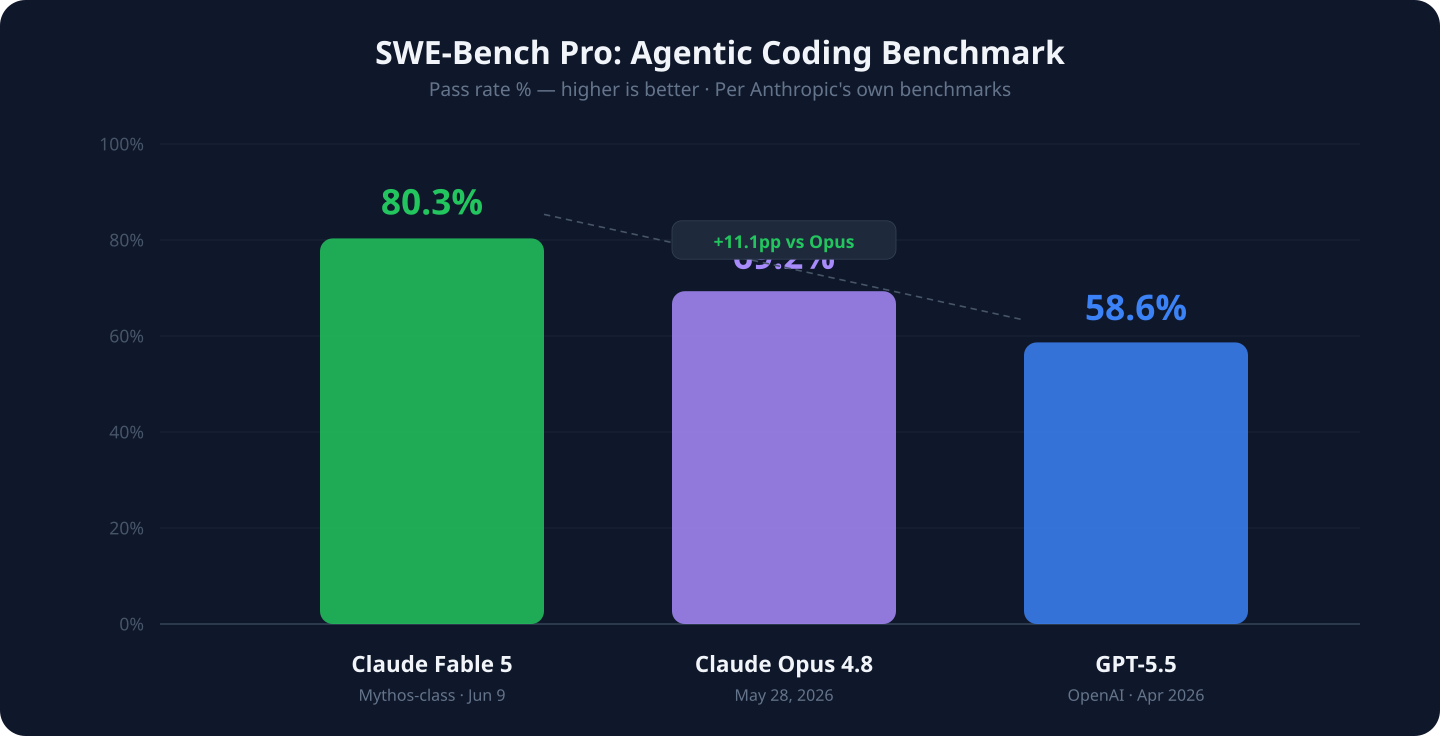
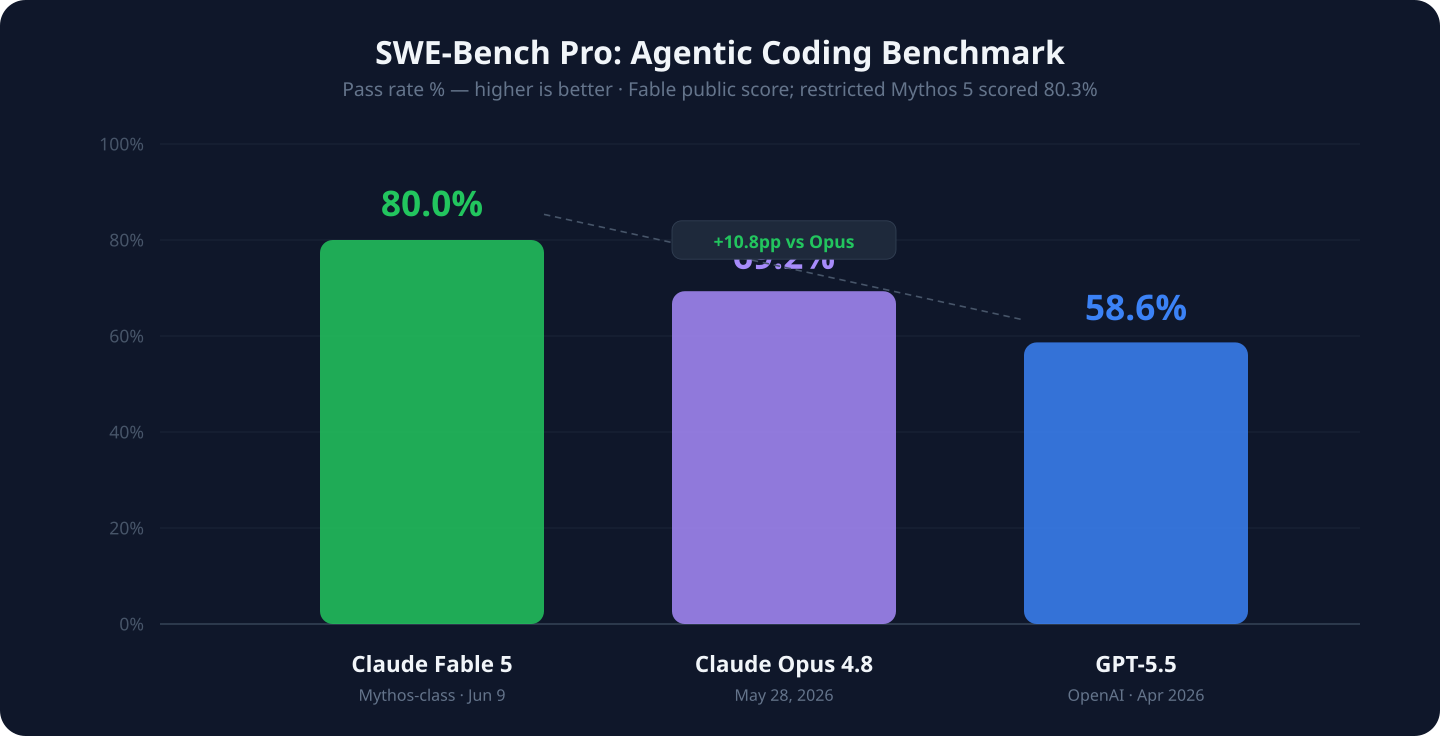
fix: fact-check Claude Fable 5 article

Changed region(s): [[0.25, 0.0938, 0.75, 0.1562], [0.25, 0.25, 0.3438, 0.3125], [0.5, 0.3125, 0.5312, 0.3438]]

diff --git a/articles/genai-20260610-claude-fable-5-mythos/index.html b/articles/genai-20260610-claude-fable-5-mythos/index.html
@@ -51,24 +51,24 @@
         <p class="caption">Anthropic's new model hierarchy — Mythos class sits above Opus for the first time</p>
     </div>
 
-    <p>On June 9, 2026, Anthropic did something no frontier AI lab has done before. They released their most powerful model to date — <em>and then split it in two.</em></p>
+    <p>On June 9, 2026, Anthropic did something unusual for a frontier AI lab. They released their most capable model family to date — <em>and then split it in two.</em></p>
 
-    <p><strong>Claude Fable 5</strong> is available to everyone via API, claude.ai, AWS Bedrock, and Google Vertex. <strong>Claude Mythos 5</strong> is the same model, but restricted to vetted enterprise partners and biology researchers. The difference? Safety guardrails — Fable 5 blocks queries in high-risk areas like cybersecurity exploitation and biological harm, while Mythos 5 gets full, unrestricted access.</p>
+    <p><strong>Claude Fable 5</strong> is generally available via the Claude API, Claude Platform on AWS, Amazon Bedrock, Vertex AI, Microsoft Foundry, and Claude subscription plans through June 22 before usage credits are required. <strong>Claude Mythos 5</strong> uses the same underlying model, but is limited to approved Project Glasswing partners and future trusted-access researchers. The difference is the safety layer: Fable 5 routes or refuses flagged high-risk cybersecurity and biology requests, while Mythos 5 lifts specific safeguards for approved use cases.</p>
 
-    <p>This is the story of the first "Mythos-class" model, a new tier that sits above Opus in Anthropic's hierarchy. And it arrives at a pointed moment: Anthropic confidentially filed for IPO on June 1, 2026 — eight days before this launch.</p>
+    <p>This is the story of the first broadly available "Mythos-class" release, a new tier that sits above Opus in Anthropic's hierarchy. And it arrives at a pointed moment: Anthropic submitted a confidential draft S-1 for a proposed IPO on June 1, 2026 — eight days before this launch.</p>
 
     <hr>
 
     <h2>The Mythos Tier: A New Layer on Top</h2>
 
-    <p>Since Claude 3 launched in March 2024, Anthropic's model lineup has been three-tiered: Haiku (fast and cheap), Sonnet (balanced), and Opus (professional-grade). For two years, Opus was the ceiling. Leaks about a fourth "Mythos" tier started circulating in April 2026, and Anthropic confirmed the existence of a Mythos Preview available to select testers — but wouldn't commit to a public release.</p>
+    <p>Since Claude 3 was announced on March 4, 2024, Anthropic's public model lineup has been anchored by three capability bands: Haiku, Sonnet, and Opus. Opus and Sonnet shipped first, with Haiku following later that month. For two years, Opus was the ceiling. In April 2026, Anthropic revealed a limited Claude Mythos 2 Preview through Project Glasswing — an unreleased frontier model available only to selected partners for defensive security work.</p>
 
-    <p>Now we know why they held back. The model is powerful enough that Anthropic spent months building safety infrastructure before they were comfortable releasing it publicly. The result is a two-model strategy: one model, two configurations.</p>
+    <p>Now Fable 5 turns that Mythos-class capability into a broadly available product, but only after Anthropic added conservative safeguards and a restricted Mythos 5 path for trusted-access use cases. The result is a two-model strategy: one base model, two deployment configurations.</p>
 
     <div class="stat-grid">
         <div class="stat-card">
-            <div class="number">80.3%</div>
-            <div class="label">SWE-Bench Pro score (Fable 5)</div>
+            <div class="number">80.0%</div>
+            <div class="label">SWE-Bench Pro score (Fable 5; Mythos 5: 80.3%)</div>
         </div>
         <div class="stat-card">
             <div class="number">1M</div>
@@ -89,19 +89,19 @@
     <h2>What the Benchmarks Actually Say</h2>
 
     <div class="img-container">
-        <img src="https://vinoth12940.github.io/blog/articles/genai-20260610-claude-fable-5-mythos/images/02_benchmarks.png" alt="Bar chart comparing Claude Fable 5 at 80.3%, Claude Opus 4.8 at 69.2%, and GPT-5.5 at 58.6% on SWE-Bench Pro">
-        <p class="caption">SWE-Bench Pro agentic coding benchmark — Fable 5 leads by 11.1 percentage points over Opus 4.8</p>
+        <img src="https://vinoth12940.github.io/blog/articles/genai-20260610-claude-fable-5-mythos/images/02_benchmarks.png" alt="Bar chart comparing Claude Fable 5 at 80.0%, Claude Opus 4.8 at 69.2%, and GPT-5.5 at 58.6% on SWE-Bench Pro; restricted Mythos 5 scored 80.3%">
+        <p class="caption">SWE-Bench Pro agentic coding benchmark — Fable 5 leads Opus 4.8 by 10.8 percentage points; restricted Mythos 5 scored 80.3%</p>
     </div>
 
-    <p>The headline number: <strong>Fable 5 scores 80.3% on SWE-Bench Pro</strong>, Anthropic's preferred agentic coding benchmark. That's 11.1 percentage points above Opus 4.8 (69.2%) and 21.7 points above GPT-5.5 (58.6%), per Anthropic's own testing.</p>
+    <p>The headline number needs one caveat: <strong>Fable 5 scores 80.0% on SWE-Bench Pro</strong>, while restricted Mythos 5 scores 80.3%, per Anthropic's system card. That puts Fable 5 10.8 percentage points above Opus 4.8 (69.2%) and 21.4 points above GPT-5.5 (58.6%), based on Anthropic's own testing.</p>
 
     <blockquote>
         <p><strong>Important caveat:</strong> These benchmarks come from Anthropic's own evaluation. As of publication, independent third-party verification of Fable 5's SWE-Bench Pro scores is not yet available. Treat these as self-reported until confirmed by external eval runners.</p>
     </blockquote>
 
-    <p>On CursorBench — the coding agent benchmark maintained by the Cursor team — Fable 5 scores 66% (47.0/71.0), which Cursor CEO Michael Truell called "the state of the art model for coding" in Anthropic's announcement post.</p>
+    <p>On CursorBench — the coding agent benchmark maintained by the Cursor team — Fable 5 scores 72.9% at maximum effort, 8.6 points above GPT-5.5's highest published effort (64.3%), according to Anthropic's system card and Cursor's published benchmark. Cursor CEO Michael Truell called it "the state of the art model for coding" in Anthropic's announcement post.</p>
 
-    <p>Beyond coding, Anthropic reports a 10-point jump over Opus 4.8 on long-running analytical tasks, improved vision capabilities (including the ability to rebuild application interfaces from screenshots), and significant gains in knowledge work and memory across extended sessions.</p>
+    <p>Beyond coding, Anthropic reports a 10-point jump over Opus on long-running analytical tasks, improved vision capabilities (including the ability to rebuild application interfaces from screenshots), and significant gains in knowledge work and memory across extended sessions.</p>
 
     <hr>
 
@@ -109,7 +109,7 @@
 
     <p>Perhaps the most striking claim in the announcement came from Stripe. During early testing, Stripe reported that Fable 5 <strong>"compressed months of engineering into days"</strong> while working across a 50-million-line codebase.</p>
 
-    <p>This is the kind of claim that sounds like marketing until you consider the source. Stripe has one of the most sophisticated engineering teams in the industry and a codebase that handles billions of dollars in transactions. If they're saying it publicly, it's worth paying attention to — though the specific tasks, conditions, and human oversight involved were not detailed.</p>
+    <p>This is the kind of claim that sounds like marketing until you consider the source. Stripe has one of the most sophisticated engineering teams in the industry and a codebase that handles billions of dollars in transactions. If Anthropic is putting that Stripe testimonial in the launch announcement, it's worth paying attention to — though the specific tasks, conditions, and human oversight involved were not detailed.</p>
 
     <p>What we do know is that Anthropic specifically highlights Fable 5's ability to "work autonomously for longer than any previous Claude models." This suggests meaningful improvements in sustained multi-step task execution — not just single-turn coding challenges, but the ability to plan, execute, debug, and iterate across hours or days of work.</p>
 
@@ -118,49 +118,49 @@
     <h2>The Safety Split: Same Model, Two Doors</h2>
 
     <div class="img-container">
-        <img src="https://vinoth12940.github.io/blog/articles/genai-20260610-claude-fable-5-mythos/images/03_safety_split.png" alt="Diagram showing Claude Fable 5 available publicly with safety guardrails versus Claude Mythos 5 restricted to vetted partners with full capabilities">
+        <img src="https://vinoth12940.github.io/blog/articles/genai-20260610-claude-fable-5-mythos/images/03_safety_split.png" alt="Diagram showing Claude Fable 5 generally available with safety guardrails versus Claude Mythos 5 restricted to vetted partners with selected safeguards lifted">
         <p class="caption">The two-model release strategy — identical base model, different safety configurations</p>
     </div>
 
-    <p>Here's where the story gets genuinely unprecedented. Anthropic didn't just release one powerful model — they released the same model in two configurations:</p>
+    <p>Here's where the story gets genuinely precedent-setting. Anthropic didn't just release one powerful model — they released the same base model in two configurations:</p>
 
     <ul>
-        <li><strong>Claude Fable 5</strong> — available to everyone, with guardrails that block responses in high-risk cybersecurity and biology domains</li>
-        <li><strong>Claude Mythos 5</strong> — available only to vetted Project Glasswing partners and selected biology researchers, with full unrestricted capabilities</li>
+        <li><strong>Claude Fable 5</strong> — generally available, with classifiers that route or refuse flagged high-risk cybersecurity and biology requests</li>
+        <li><strong>Claude Mythos 5</strong> — available only to vetted Project Glasswing partners and trusted-access researchers, with specific safeguards lifted for approved use cases</li>
     </ul>
 
-    <p>Per Anthropic's system card, Fable 5 achieves "near-perfect harmless response rate" on child safety evaluations. The Guardian reported that Anthropic "restricted access for months over cybersecurity concerns" before deciding on this split release approach.</p>
+    <p>Per Anthropic's system card, Fable 5 achieves a "near-perfect harmless response rate" on single-turn child safety evaluations. The Guardian/AFP reported that Anthropic restricted Mythos access over cybersecurity concerns before deciding on this split release approach.</p>
 
-    <p>The practical difference: if you're a security researcher trying to test Fable 5 on penetration testing scenarios, or a biologist working on pathogen research, Fable 5 will refuse. Mythos 5 won't — but you can't get access to Mythos 5 without going through Anthropic's vetting process.</p>
+    <p>The practical difference: if you're a security researcher testing flagged penetration-testing scenarios, or a biologist working on sensitive pathogen research, Fable 5 may route the request to Opus 4.8 or return an API refusal. Mythos 5 is not a public bypass; it requires approval through Project Glasswing or Anthropic's broader trusted-access programs.</p>
 
     <blockquote class="warning">
-        <p><strong>Why this matters:</strong> This is the first time a major AI lab has explicitly acknowledged that they built something too dangerous for full public release — and created a parallel restricted version for trusted partners. It sets a precedent that other labs will likely follow as models become more capable.</p>
+        <p><strong>Why this matters:</strong> This is one of the clearest examples yet of a major AI lab putting Mythos-level capabilities into a public product while keeping a parallel, less-restricted configuration for vetted partners. It sets a precedent that other labs may follow as models become more capable.</p>
     </blockquote>
 
     <hr>
 
     <h2>Pricing: Premium Power at Premium Cost</h2>
 
-    <p>Fable 5 isn't cheap. At <strong>$10 per million input tokens and $50 per million output tokens</strong>, it's roughly double Opus 4.8's pricing and double GPT-5.5's input cost. Both Fable 5 and Mythos 5 share the same pricing structure.</p>
+    <p>Fable 5 isn't cheap. At <strong>$10 per million input tokens and $50 per million output tokens</strong>, it's a premium-tier model, though Anthropic says it is still less than half the price of Mythos Preview. Both Fable 5 and Mythos 5 share the same pricing structure.</p>
 
     <ul>
         <li><strong>Input:</strong> $10 / million tokens</li>
         <li><strong>Output:</strong> $50 / million tokens</li>
-        <li><strong>Prompt caching:</strong> 90% discount on cached inputs</li>
-        <li><strong>Context window:</strong> 1M tokens input, 128K tokens output</li>
+        <li><strong>Prompt caching:</strong> cache hits/refreshes are $1/M tokens; 5-minute cache writes are $12.50/M and 1-hour writes are $20/M</li>
+        <li><strong>Context/output:</strong> 1M-token context window; up to 128K output tokens per request</li>
     </ul>
 
     <p>For context: a typical coding agent session that reads a medium-sized repo and produces a multi-file PR might consume 200K input tokens and 10K output tokens. That's roughly $2 in input and $0.50 in output per session — manageable for professional use, expensive for casual experimentation.</p>
 
-    <p>The prompt caching discount is critical here. If you're running repeated queries against the same codebase (which most coding agents do), the effective input cost drops to $1/M after the first query. This makes sustained agentic workflows much more economical than the headline price suggests.</p>
+    <p>The prompt caching discount is critical here. If you're running repeated queries against the same cached codebase (which most coding agents do), cache hits and refreshes drop to $1/M after the first write. This makes sustained agentic workflows much more economical than the headline price suggests.</p>
 
     <hr>
 
     <h2>The IPO Context: Timing Is Everything</h2>
 
-    <p>On June 1, 2026 — eight days before the Fable 5 launch — the New York Times reported that <strong>Anthropic confidentially filed for an initial public offering</strong>. The filing joins what the NYT described as "a once-in-a-generation" wave of tech IPOs.</p>
+    <p>On June 1, 2026 — eight days before the Fable 5 launch — Anthropic said it <strong>confidentially submitted a draft Form S-1 registration statement</strong> for a proposed initial public offering. The New York Times described the broader IPO moment as "a once-in-a-generation" wave of tech listings.</p>
 
-    <p>The timing is hard to ignore. Releasing a new flagship model that benchmarks ahead of both GPT-5.5 and your own previous top-tier, complete with enterprise partnerships (AWS Bedrock, Google Vertex, GitLab Duo) and a Stripe testimonial — that's the kind of launch that looks very good on an S-1 roadmap.</p>
+    <p>The timing is hard to ignore. Releasing a new flagship model that benchmarks ahead of both GPT-5.5 and your own previous top-tier, complete with cloud and enterprise distribution (Claude Platform on AWS, Amazon Bedrock, Vertex AI, Microsoft Foundry, GitLab Duo Agent Platform) and a Stripe testimonial — that's the kind of launch that looks very good on an S-1 roadmap.</p>
 
     <p>This isn't a criticism. Public companies need to ship products. But it does add context to the strategic decision to release the model now rather than waiting for full independent verification of benchmarks.</p>
 
@@ -174,21 +174,21 @@
         <li><strong>Large-scale refactors</strong> — The Stripe anecdote suggests real capability on massive codebases</li>
         <li><strong>Long-running autonomous agents</strong> — Fable 5's sustained execution improvements matter for multi-hour coding tasks</li>
         <li><strong>Vision-to-code workflows</strong> — Rebuilding interfaces from screenshots opens new UI prototyping paths</li>
-        <li><strong>Complex multi-file PRs</strong> — The 80.3% SWE-Bench Pro score (if verified) suggests genuine agentic coding ability</li>
+        <li><strong>Complex multi-file PRs</strong> — The 80.0% Fable score (and 80.3% restricted Mythos score) on Anthropic's SWE-Bench Pro suggests genuine agentic coding ability, pending independent verification</li>
     </ul>
 
     <h3>When to stick with Opus or Sonnet</h3>
 
     <ul>
-        <li><strong>Bulk API processing</strong> — At 2x the cost, Fable 5 is overkill for classification, extraction, or summarization</li>
+        <li><strong>Bulk API processing</strong> — At premium pricing, Fable 5 is overkill for classification, extraction, or summarization</li>
         <li><strong>Real-time applications</strong> — The 1M context window is great for long documents but latency-sensitive apps should benchmark carefully</li>
         <li><strong>Budget-constrained projects</strong> — Sonnet remains the best price/performance ratio for most tasks</li>
-        <li><strong>Security research</strong> — Fable 5's guardrails will block you; apply for Mythos 5 access instead</li>
+        <li><strong>Security research</strong> — Fable 5's guardrails may route or refuse flagged work; apply for Mythos 5 access if you need approved high-risk testing</li>
     </ul>
 
     <h3>Getting started</h3>
 
-    <p>Fable 5 is available now via the Anthropic API (model name: <code>claude-fable-5</code>), claude.ai for Pro/Max subscribers, and through cloud partners:</p>
+    <p>Fable 5 is available now via the Anthropic API (model name: <code>claude-fable-5</code>), Claude Platform on AWS, Amazon Bedrock, Vertex AI, Microsoft Foundry, and GitLab Duo Agent Platform. Anthropic says it is included on Claude Pro, Max, Team, and seat-based Enterprise plans through June 22; after that, usage credits are required unless Anthropic extends access:</p>
 
     <pre><code># Quick test via Anthropic Python SDK
 import anthropic
@@ -209,7 +209,7 @@ print(response.content)</code></pre>
 
     <p>Until now, AI labs have handled model safety through post-training techniques — RLHF, constitutional AI, system prompts. Anthropic is going further: they're building <em>separate deployment configurations</em> of the same model, gated by identity verification and partner agreements.</p>
 
-    <p>This is a fundamentally different approach from OpenAI's model releases (where GPT-5.5 is available to everyone at the same capability level) or Google's (where Gemini models ship with built-in safety filters but no restricted-access tier). Anthropic is essentially saying: "This model is powerful enough that unrestricted public access is irresponsible, but the work still needs to happen — so we'll gate it."</p>
+    <p>This is a fundamentally different approach from OpenAI's GPT-5.5 rollout, which segments access by plan and model variant, or Google's Gemini releases, which rely on product safety filters rather than a separate vetted-access Mythos tier. Anthropic is essentially saying: "This capability is valuable enough to ship broadly, but some use cases require a gated path."</p>
 
     <p>Expect other labs to copy this pattern. As models get better at coding, security analysis, and scientific reasoning, the tension between capability and safety will only grow. The Fable/Mythos split is a prototype for how every frontier lab might handle their most powerful models going forward.</p>
 
@@ -219,9 +219,9 @@ print(response.content)</code></pre>
 
     <ul>
         <li><strong>Mythos is a new tier above Opus</strong> — the first expansion of Anthropic's model hierarchy since Claude 3</li>
-        <li><strong>Fable 5 benchmarks ahead of Opus 4.8 and GPT-5.5</strong> on Anthropic's own SWE-Bench Pro (80.3% vs 69.2% vs 58.6%) — independent verification pending</li>
-        <li><strong>The safety split is unprecedented</strong> — same model, two configurations, public vs vetted-partner access</li>
-        <li><strong>$10/$50 per million tokens</strong> — double Opus pricing, justified for complex agentic tasks, overkill for routine work</li>
+        <li><strong>Fable 5 benchmarks ahead of Opus 4.8 and GPT-5.5</strong> on Anthropic's own SWE-Bench Pro (80.0% vs 69.2% vs 58.6%; restricted Mythos 5 scores 80.3%) — independent verification pending</li>
+        <li><strong>The safety split is precedent-setting</strong> — same base model, two deployment configurations, public vs vetted-partner access</li>
+        <li><strong>$10/$50 per million tokens</strong> — premium pricing, justified for complex agentic tasks, overkill for routine work</li>
         <li><strong>Stripe's 50M-line codebase claim</strong> is the most compelling real-world signal, though details are thin</li>
         <li><strong>Anthropic IPO filing</strong> (June 1) provides strategic context for the launch timing</li>
         <li><strong>The Fable/Mythos pattern</strong> is likely a template for how all frontier labs will handle powerful models going forward</li>
@@ -229,7 +229,7 @@ print(response.content)</code></pre>
 
     <hr>
 
-    <p><em>Based on official Anthropic announcements, published system cards, and reporting from TechCrunch, The Guardian, VentureBeat, and others at time of writing (June 10, 2026). Benchmark figures are from Anthropic's own evaluations unless otherwise noted.</em></p>
+    <p><em>Based on official Anthropic announcements, Claude API docs, the Fable/Mythos system card, CursorBench, GitLab materials, and reporting from The Guardian/AFP, The New York Times, Reuters, and others at time of writing (June 10, 2026). Benchmark figures are from Anthropic's own evaluations unless otherwise noted.</em></p>
 
 </article>
 </body>
